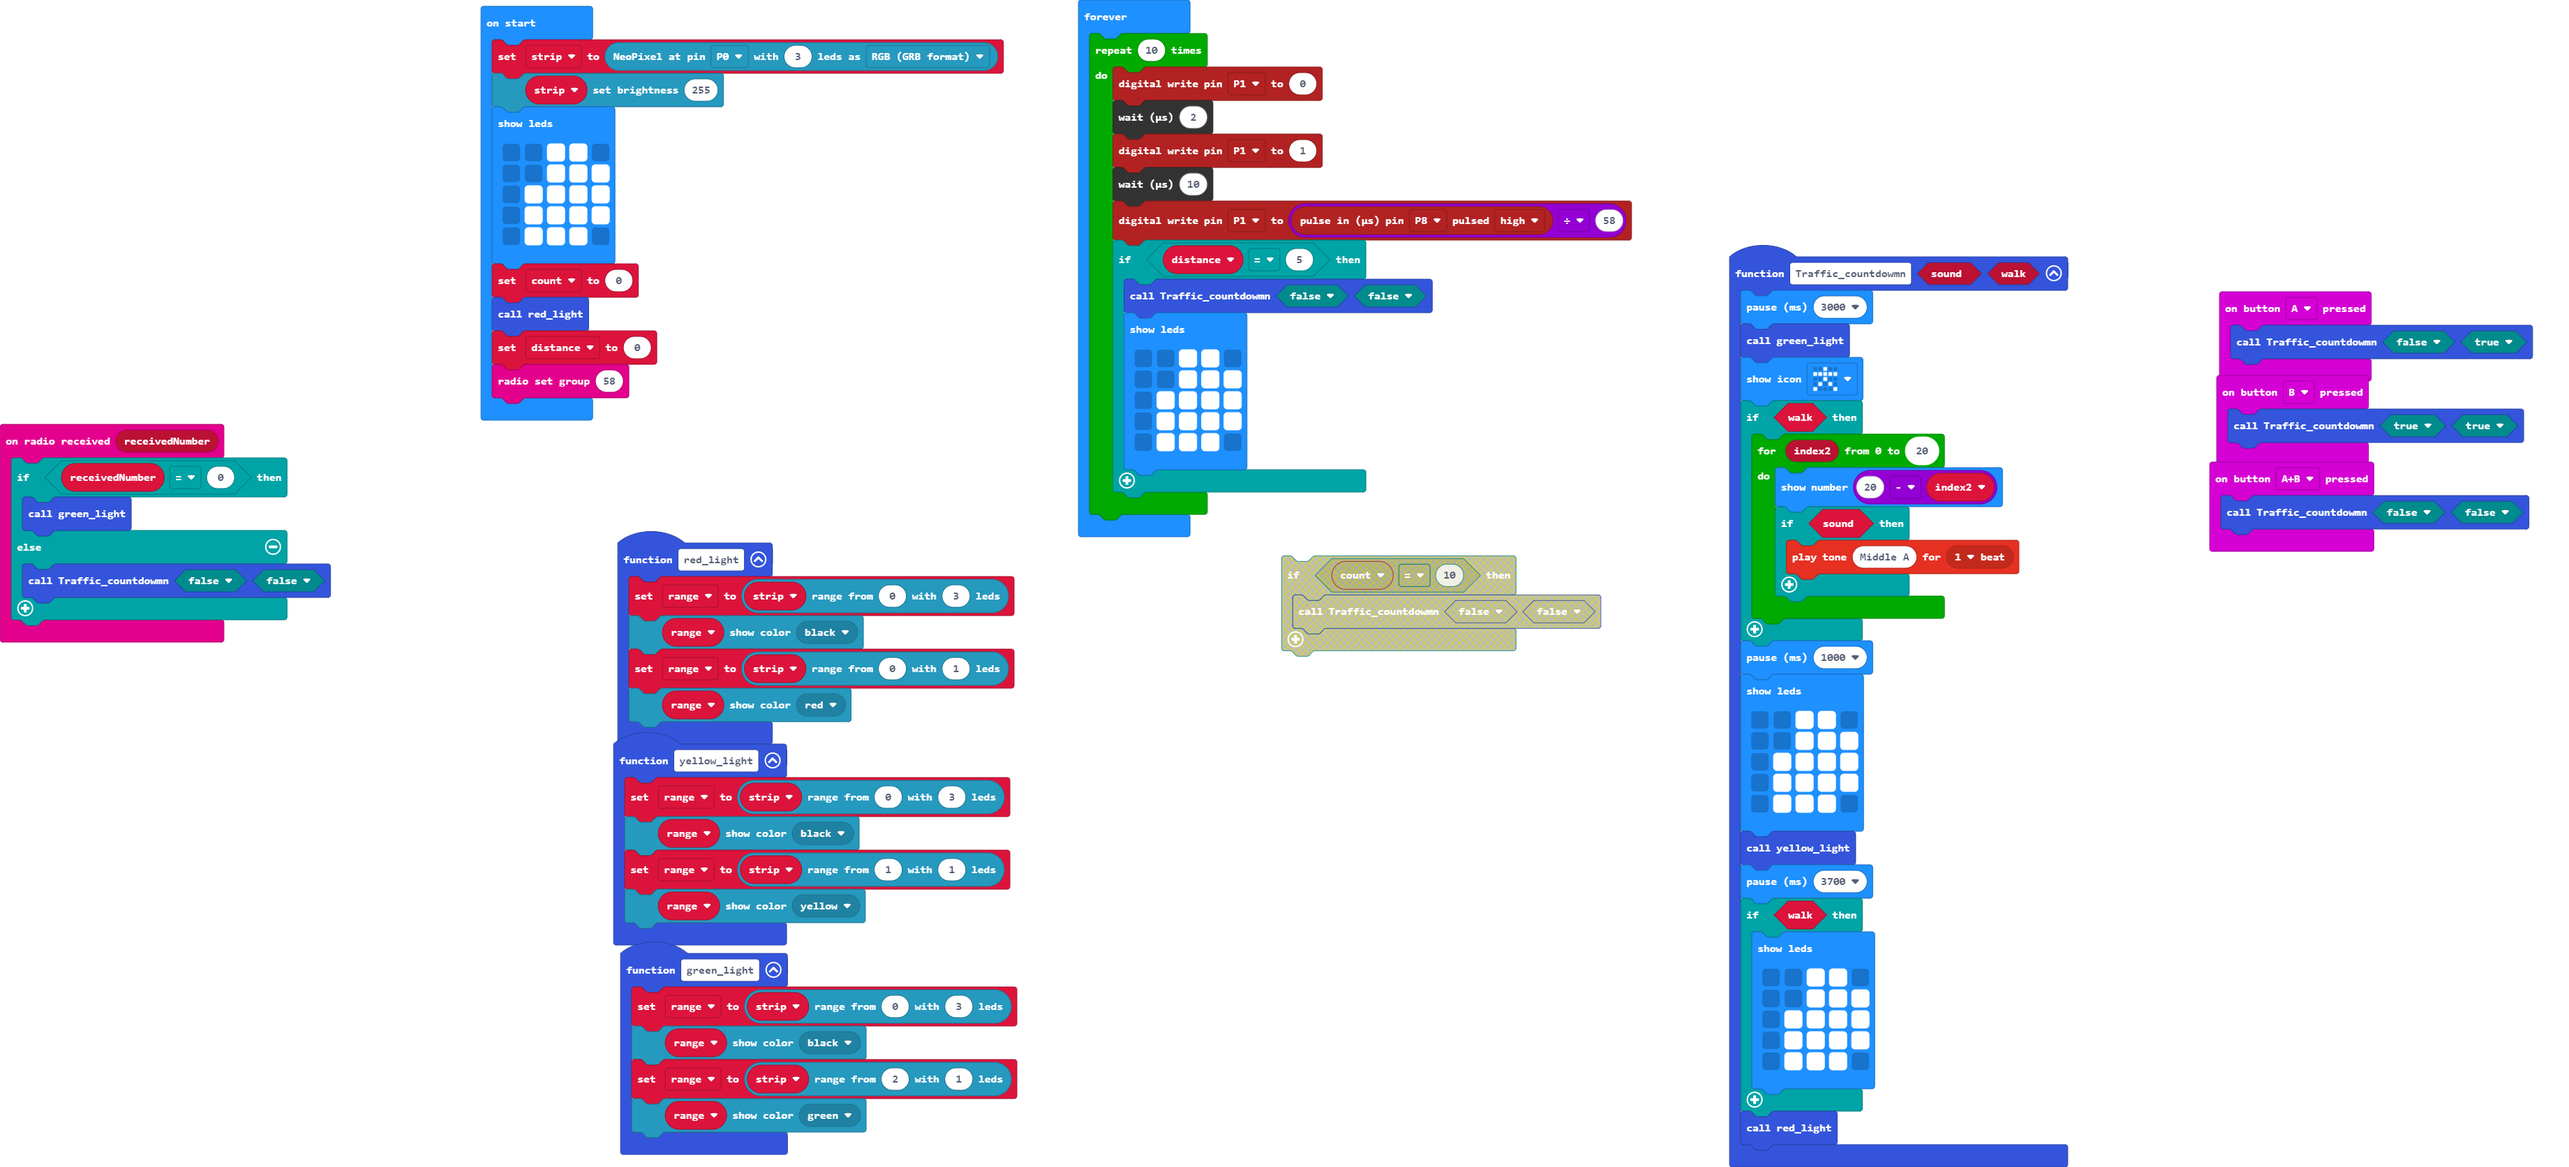
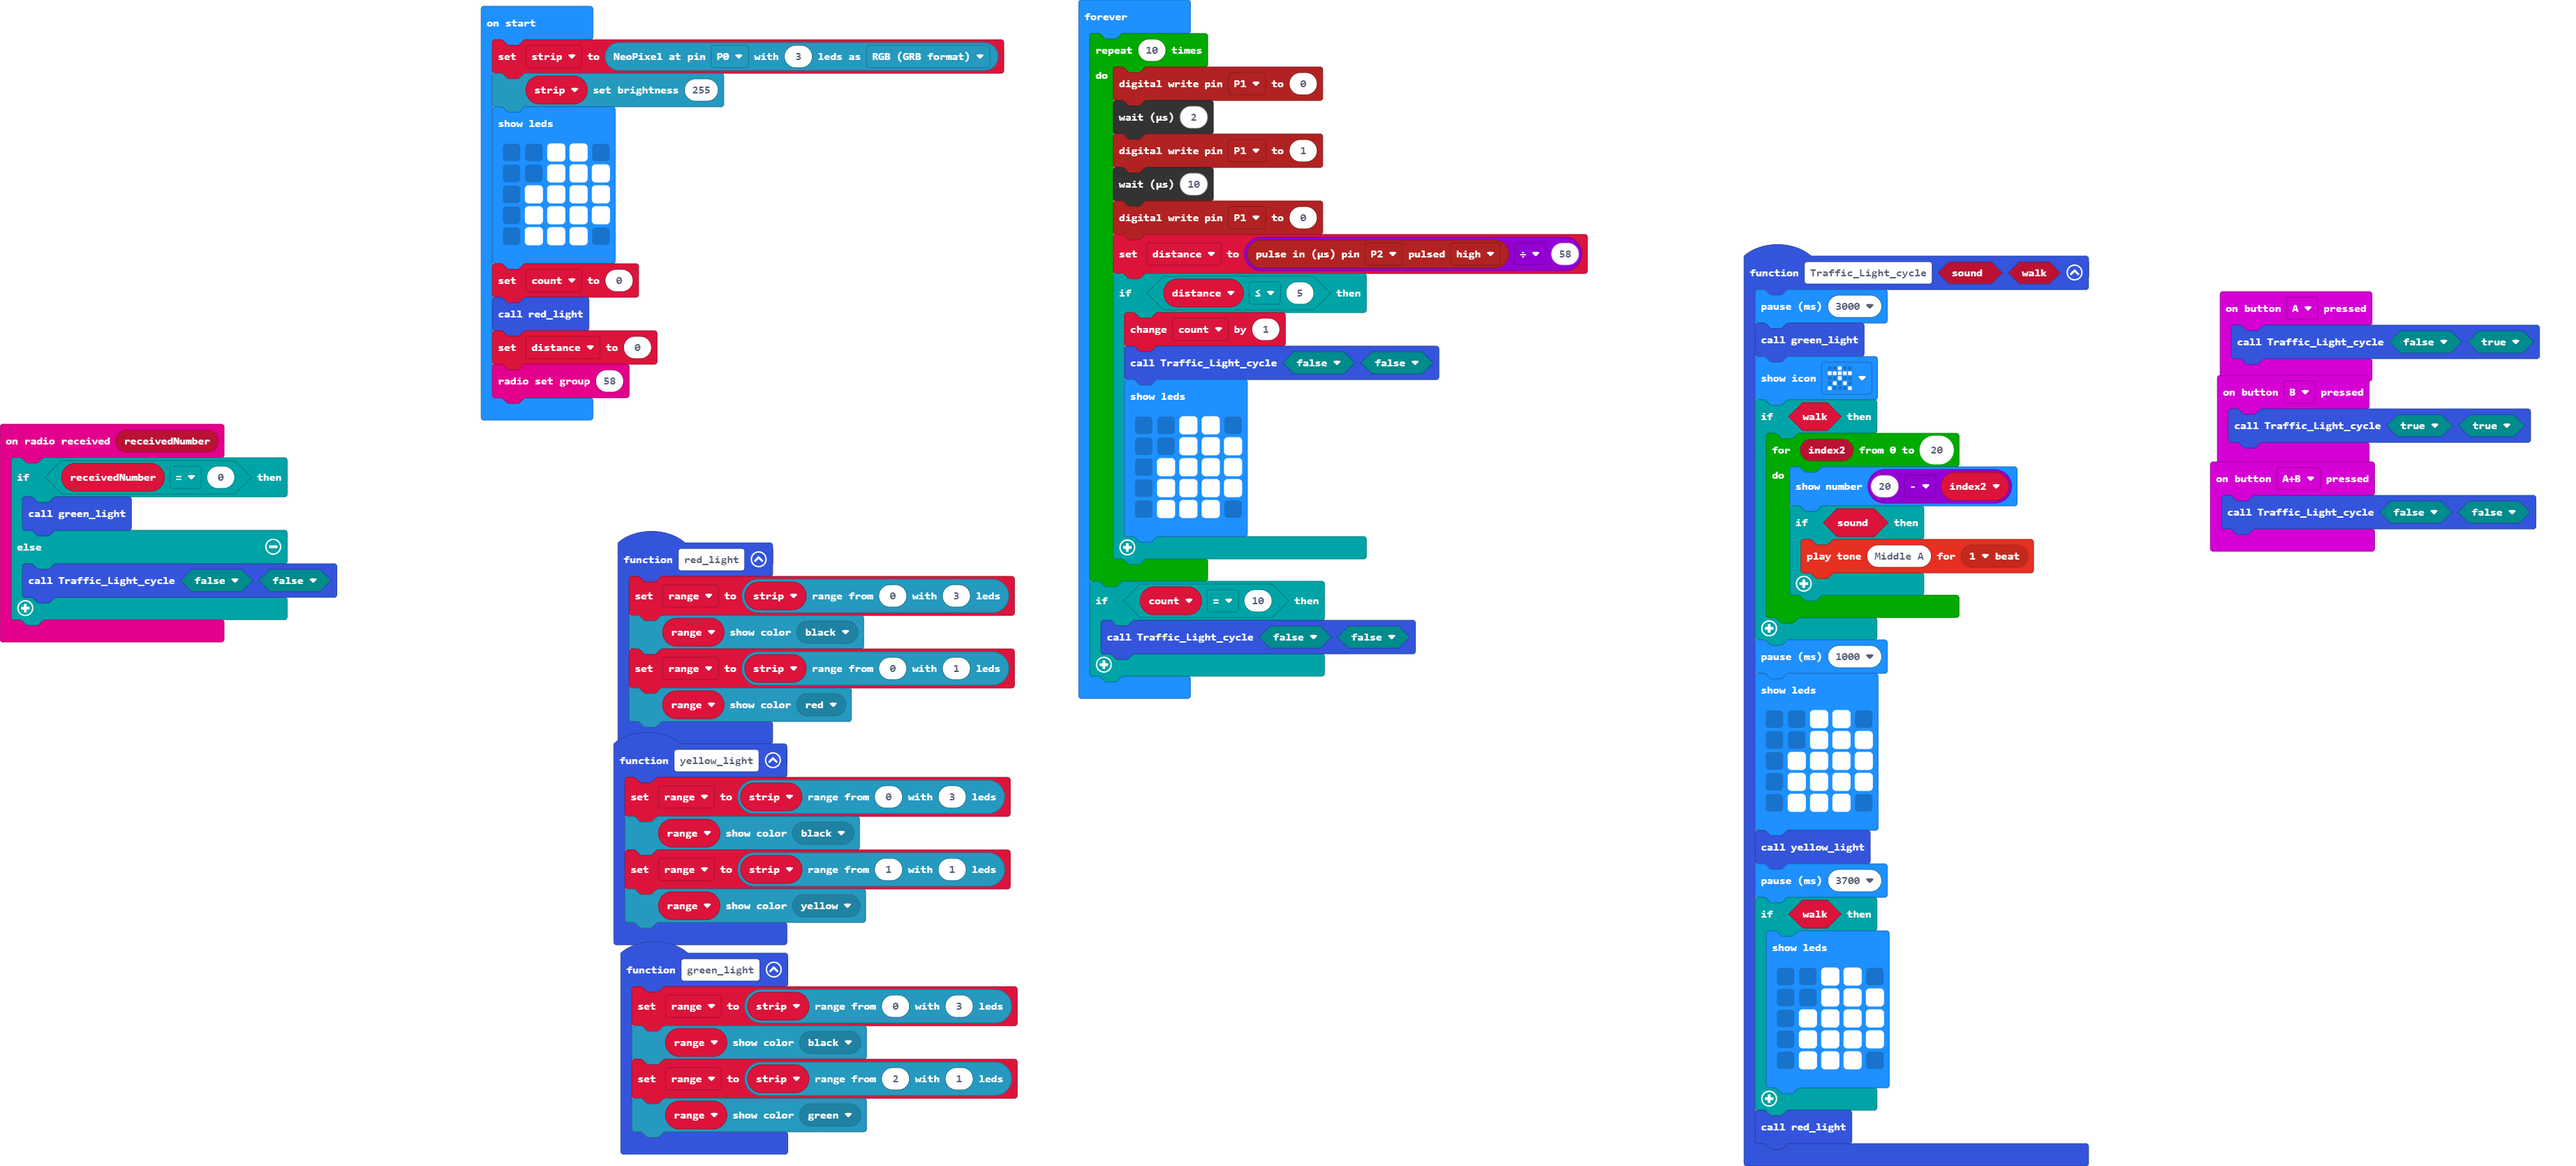
home changes

diff --git a/main.ts b/main.ts
@@ -2,7 +2,7 @@ radio.onReceivedNumber(function (receivedNumber) {
     if (receivedNumber == 0) {
         green_light()
     } else {
-        Traffic_countdowmn(false, false)
+        Traffic_Light_cycle(false, false)
     }
 })
 function green_light () {
@@ -12,9 +12,9 @@ function green_light () {
     range.showColor(neopixel.colors(NeoPixelColors.Green))
 }
 input.onButtonPressed(Button.A, function () {
-    Traffic_countdowmn(false, true)
+    Traffic_Light_cycle(false, true)
 })
-function Traffic_countdowmn (sound_: boolean, walk: boolean) {
+function Traffic_Light_cycle (sound_: boolean, walk: boolean) {
     basic.pause(3000)
     green_light()
     basic.showIcon(IconNames.StickFigure)
@@ -48,10 +48,10 @@ function Traffic_countdowmn (sound_: boolean, walk: boolean) {
     red_light()
 }
 input.onButtonPressed(Button.AB, function () {
-    Traffic_countdowmn(false, false)
+    Traffic_Light_cycle(false, false)
 })
 input.onButtonPressed(Button.B, function () {
-    Traffic_countdowmn(true, true)
+    Traffic_Light_cycle(true, true)
 })
 function red_light () {
     range = strip.range(0, 3)
@@ -86,9 +86,11 @@ basic.forever(function () {
         control.waitMicros(2)
         pins.digitalWritePin(DigitalPin.P1, 1)
         control.waitMicros(10)
-        pins.digitalWritePin(DigitalPin.P1, pins.pulseIn(DigitalPin.P8, PulseValue.High) / 58)
-        if (distance == 5) {
-            Traffic_countdowmn(false, false)
+        pins.digitalWritePin(DigitalPin.P1, 0)
+        distance = pins.pulseIn(DigitalPin.P2, PulseValue.High) / 58
+        if (distance <= 5) {
+            count += 1
+            Traffic_Light_cycle(false, false)
             basic.showLeds(`
                 . . # # .
                 . . # # #
@@ -97,5 +99,8 @@ basic.forever(function () {
                 . # # # .
                 `)
         }
+    }
+    if (count == 10) {
+        Traffic_Light_cycle(false, false)
     }
 })
